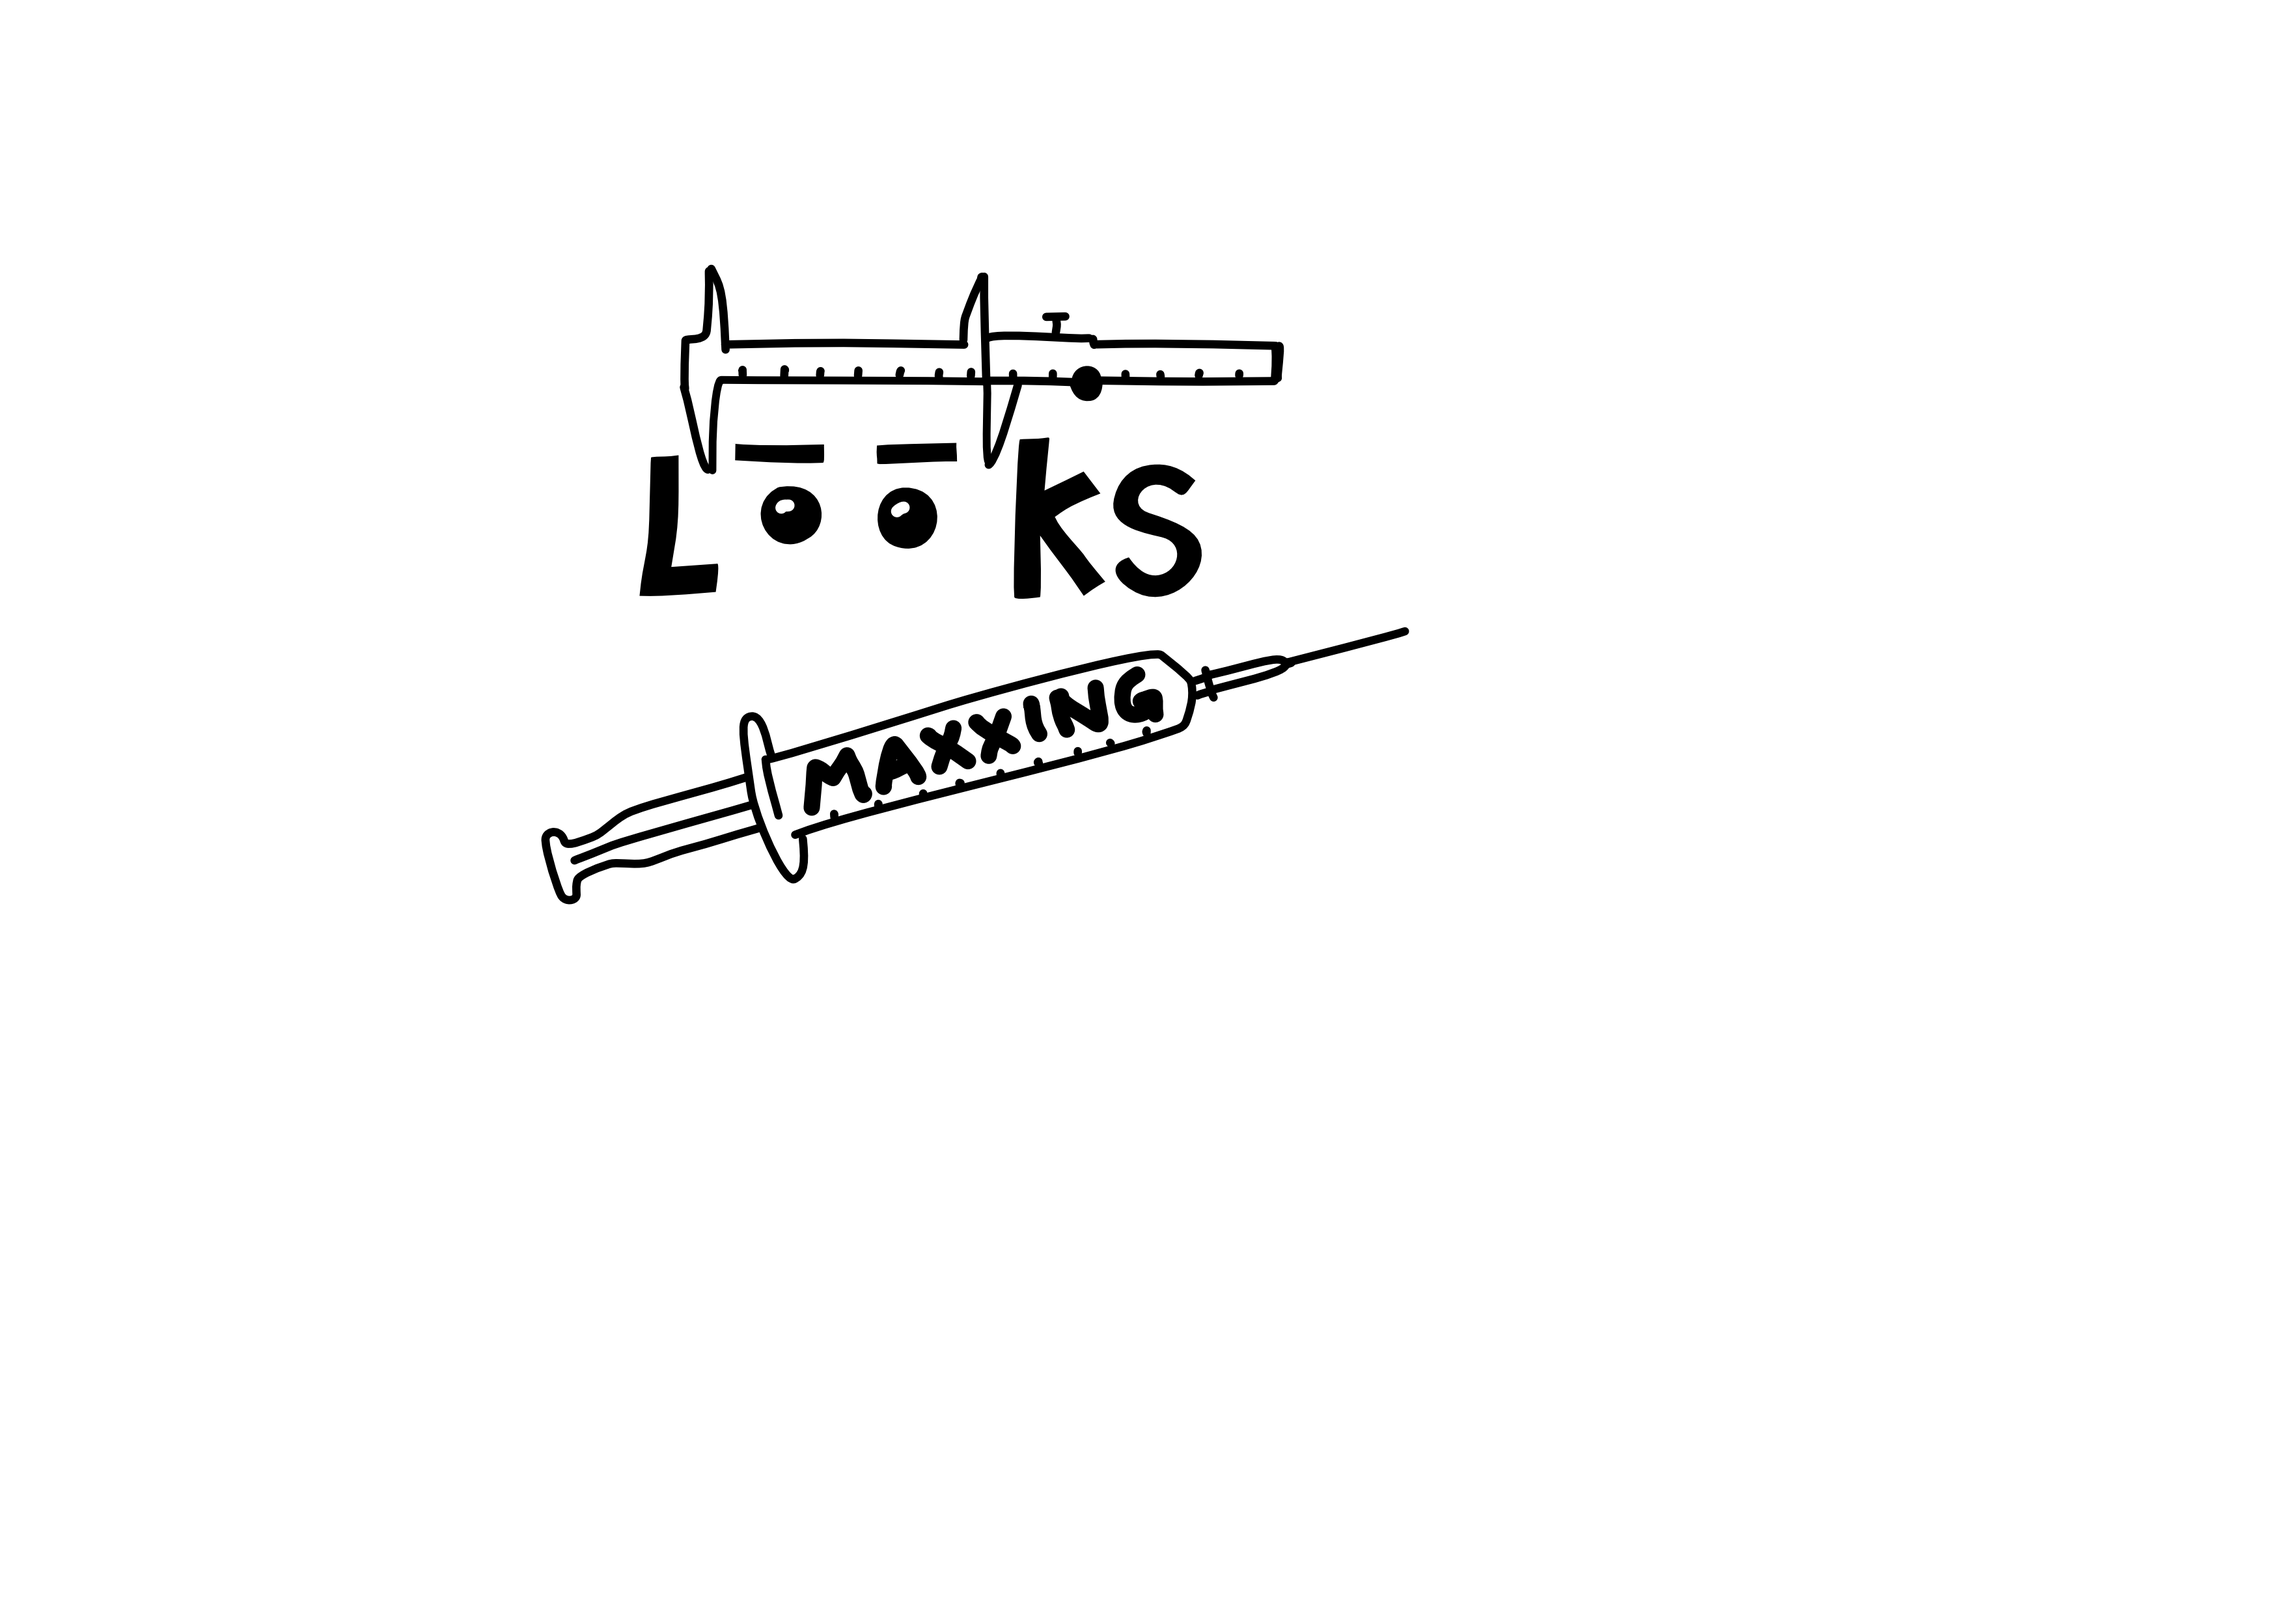
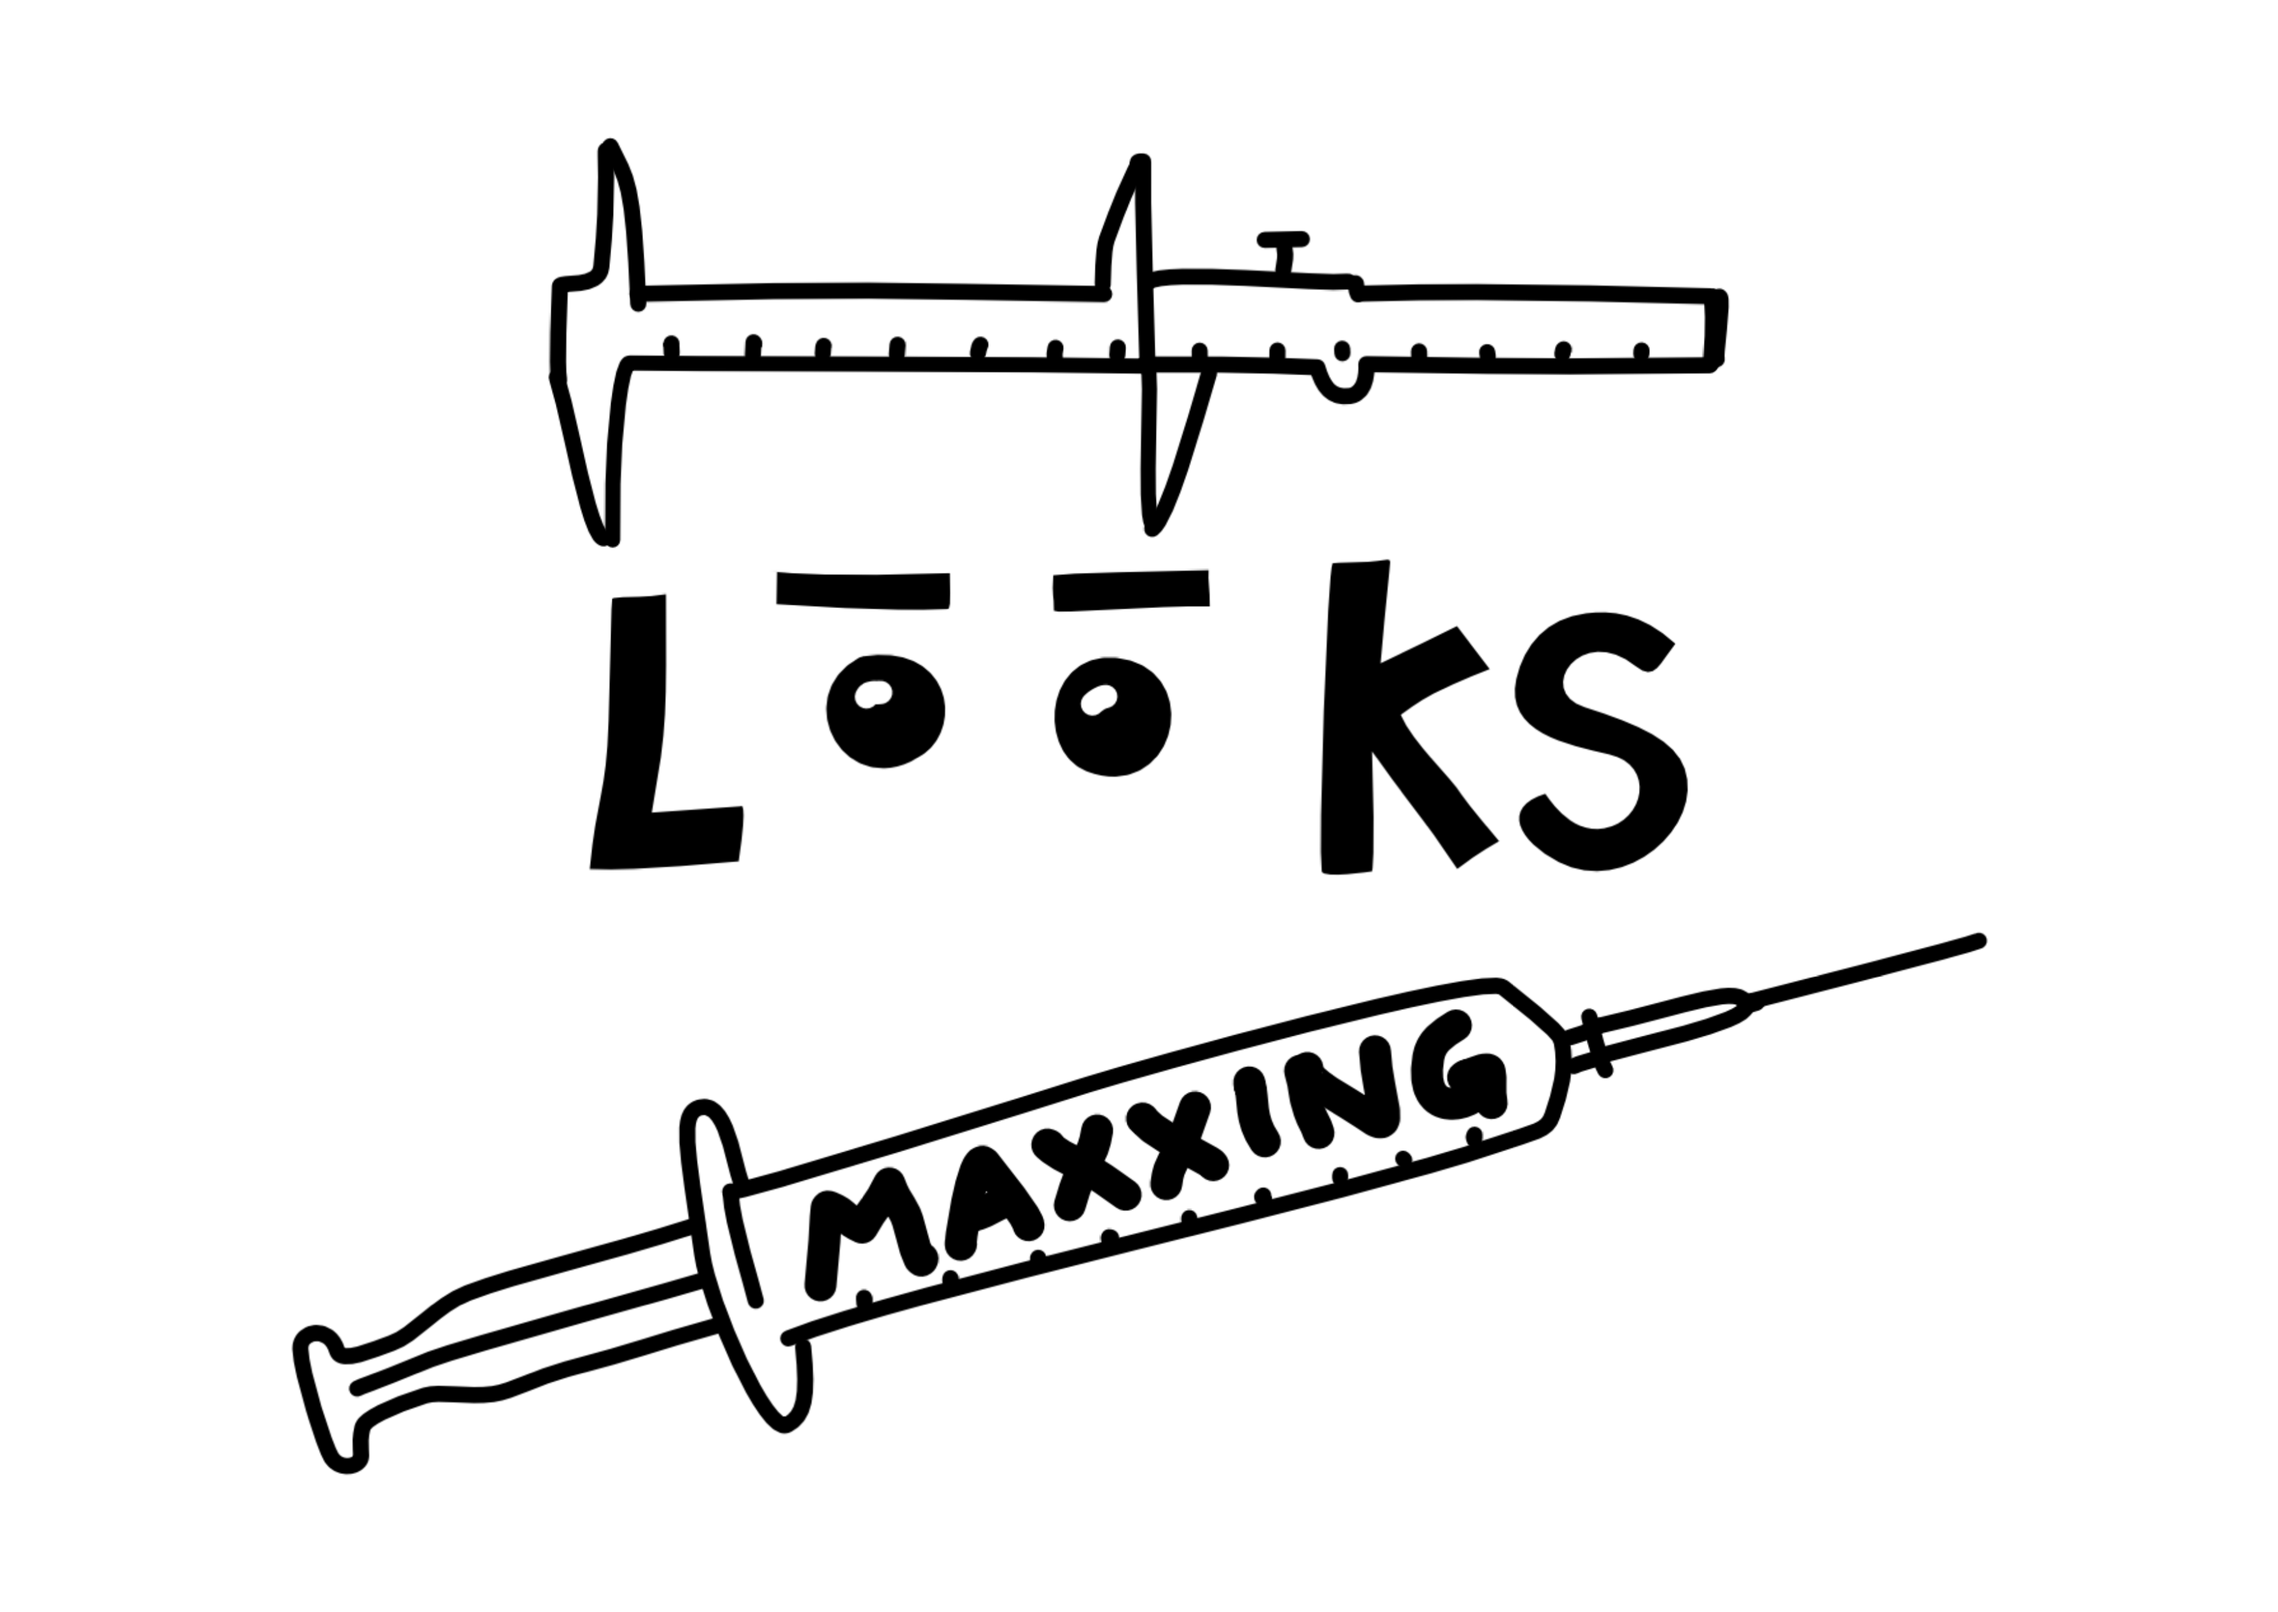
Fix Looksmaxxing entry image placement and semantic landscape formatting
- Move entry_image and entry_image_caption before semantic_landscape in frontmatter
- Replace PNG with higher quality qlmanage render (3500x2476)
- Bold key terms in semantic landscape: Looksmaxxing, SMV, Blackpill, Subhuman, Comparison Culture, BDD, Mar-a-Lago face, Deinfluencing

Changed region(s): [[0.218, 0.0933, 0.7786, 0.5598], [0.1246, 0.5598, 0.872, 0.933]]

diff --git a/content/Cabinet of Digital Terms/Gender & Identity/Looksmaxxing/index.md b/content/Cabinet of Digital Terms/Gender & Identity/Looksmaxxing/index.md
@@ -20,18 +20,18 @@ related_consequence:
   - Subhuman
 related_reaction:
   - Deinfluencing
-semantic_landscape: |
-  Looksmaxxing sits at the conversion point of the Gender & Identity cluster: where ideology becomes practice, and practice becomes pathology. As a mechanism, it translates the abstract logic of SMV (Sexual Market Value) — attractiveness as market position — into bodies, routines, and procedures. The same rating logic applies to both men and women; what differs is where the graph leads from here.
-
-  From the male side, the most revealing feature is the double connection to Blackpill. Blackpill appears both as a co-mechanism (shaping how looksmaxxing is practiced) and as a consequence (where looksmaxxers arrive when the project fails). Follow that line further: Looksmaxxing → Blackpill → Subhuman. A mechanism for self-improvement carries a dehumanising logic as its direct consequence. The rating vocabulary is not incidental — it is the endpoint made visible.
-
-  From the female side, the consequence path runs differently: Looksmaxxing → Comparison Culture → Body Dysmorphic Disorder. No radical ideology, no Subhuman label — instead a clinical endpoint. The graph shows that the same starting mechanism produces two distinct forms of damage depending on which side of the SMV scale you are on.
-
-  A third trajectory runs outside the Gender & Identity cluster entirely: when extreme plastic surgery becomes a tribal marker — as in the "Mar-a-Lago face" — the optimised body signals class, political allegiance, and access. The graph does not yet have a node for this; its absence is a gap worth naming. Looksmaxxing at that scale is no longer personal optimisation. It is a geopolitical instrument.
-
-  Deinfluencing stands alone as the only reaction node — and its solitude is itself analytical. The pushback against looksmaxxing is personal and aesthetic, not systemic. It addresses one person's feed, not the structure that produces the feed.
 entry_image: looksmaxxing.png
 entry_image_caption: "By Narrative Typographer Anne-Marie Bruinsma"
+semantic_landscape: |
+  **Looksmaxxing** sits at the conversion point of the **Gender & Identity** cluster: where ideology becomes practice, and practice becomes pathology. As a mechanism, it translates the abstract logic of **SMV (Sexual Market Value)** — attractiveness as market position — into bodies, routines, and procedures. The same rating logic applies to both men and women; what differs is where the graph leads from here.
+
+  From the male side, the most revealing feature is the double connection to **Blackpill**. Blackpill appears both as a co-mechanism (shaping how looksmaxxing is practiced) and as a consequence (where looksmaxxers arrive when the project fails). Follow that line further: **Looksmaxxing → Blackpill → Subhuman**. A mechanism for self-improvement carries a dehumanising logic as its direct consequence. The rating vocabulary is not incidental — it is the endpoint made visible.
+
+  From the female side, the consequence path runs differently: **Looksmaxxing → Comparison Culture → Body Dysmorphic Disorder**. No radical ideology, no Subhuman label — instead a clinical endpoint. The graph shows that the same starting mechanism produces two distinct forms of damage depending on which side of the SMV scale you are on.
+
+  A third trajectory runs outside the Gender & Identity cluster entirely: when extreme plastic surgery becomes a tribal marker — as in the **"Mar-a-Lago face"** — the optimised body signals class, political allegiance, and access. The graph does not yet have a node for this; its absence is a gap worth naming. **Looksmaxxing** at that scale is no longer personal optimisation. It is a geopolitical instrument.
+
+  **Deinfluencing** stands alone as the only reaction node — and its solitude is itself analytical. The pushback against looksmaxxing is personal and aesthetic, not systemic. It addresses one person's feed, not the structure that produces the feed.
 ---
 
 ***The routine takes two hours. The supplements cost more than food. The goal is a score on a scale that does not officially exist.***
